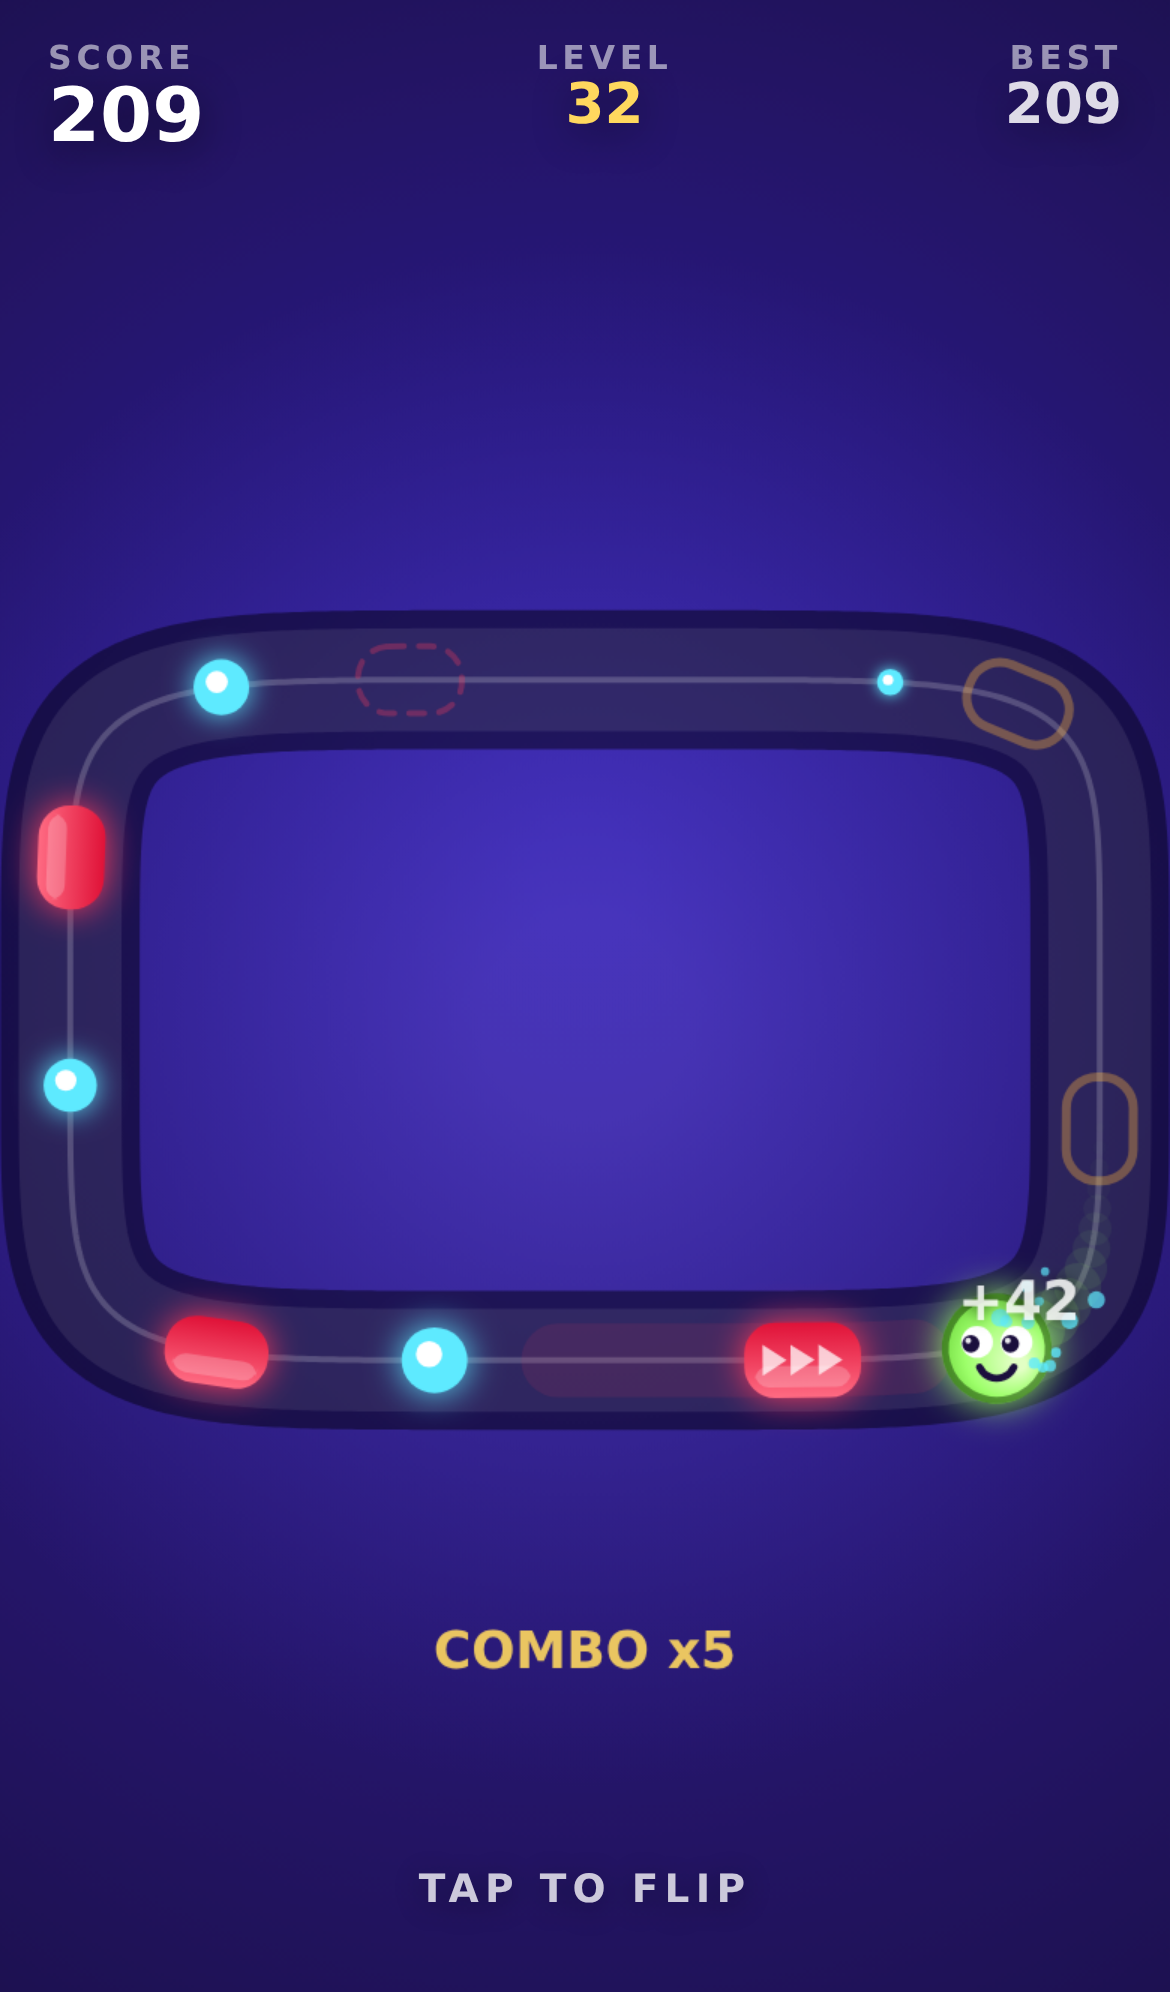
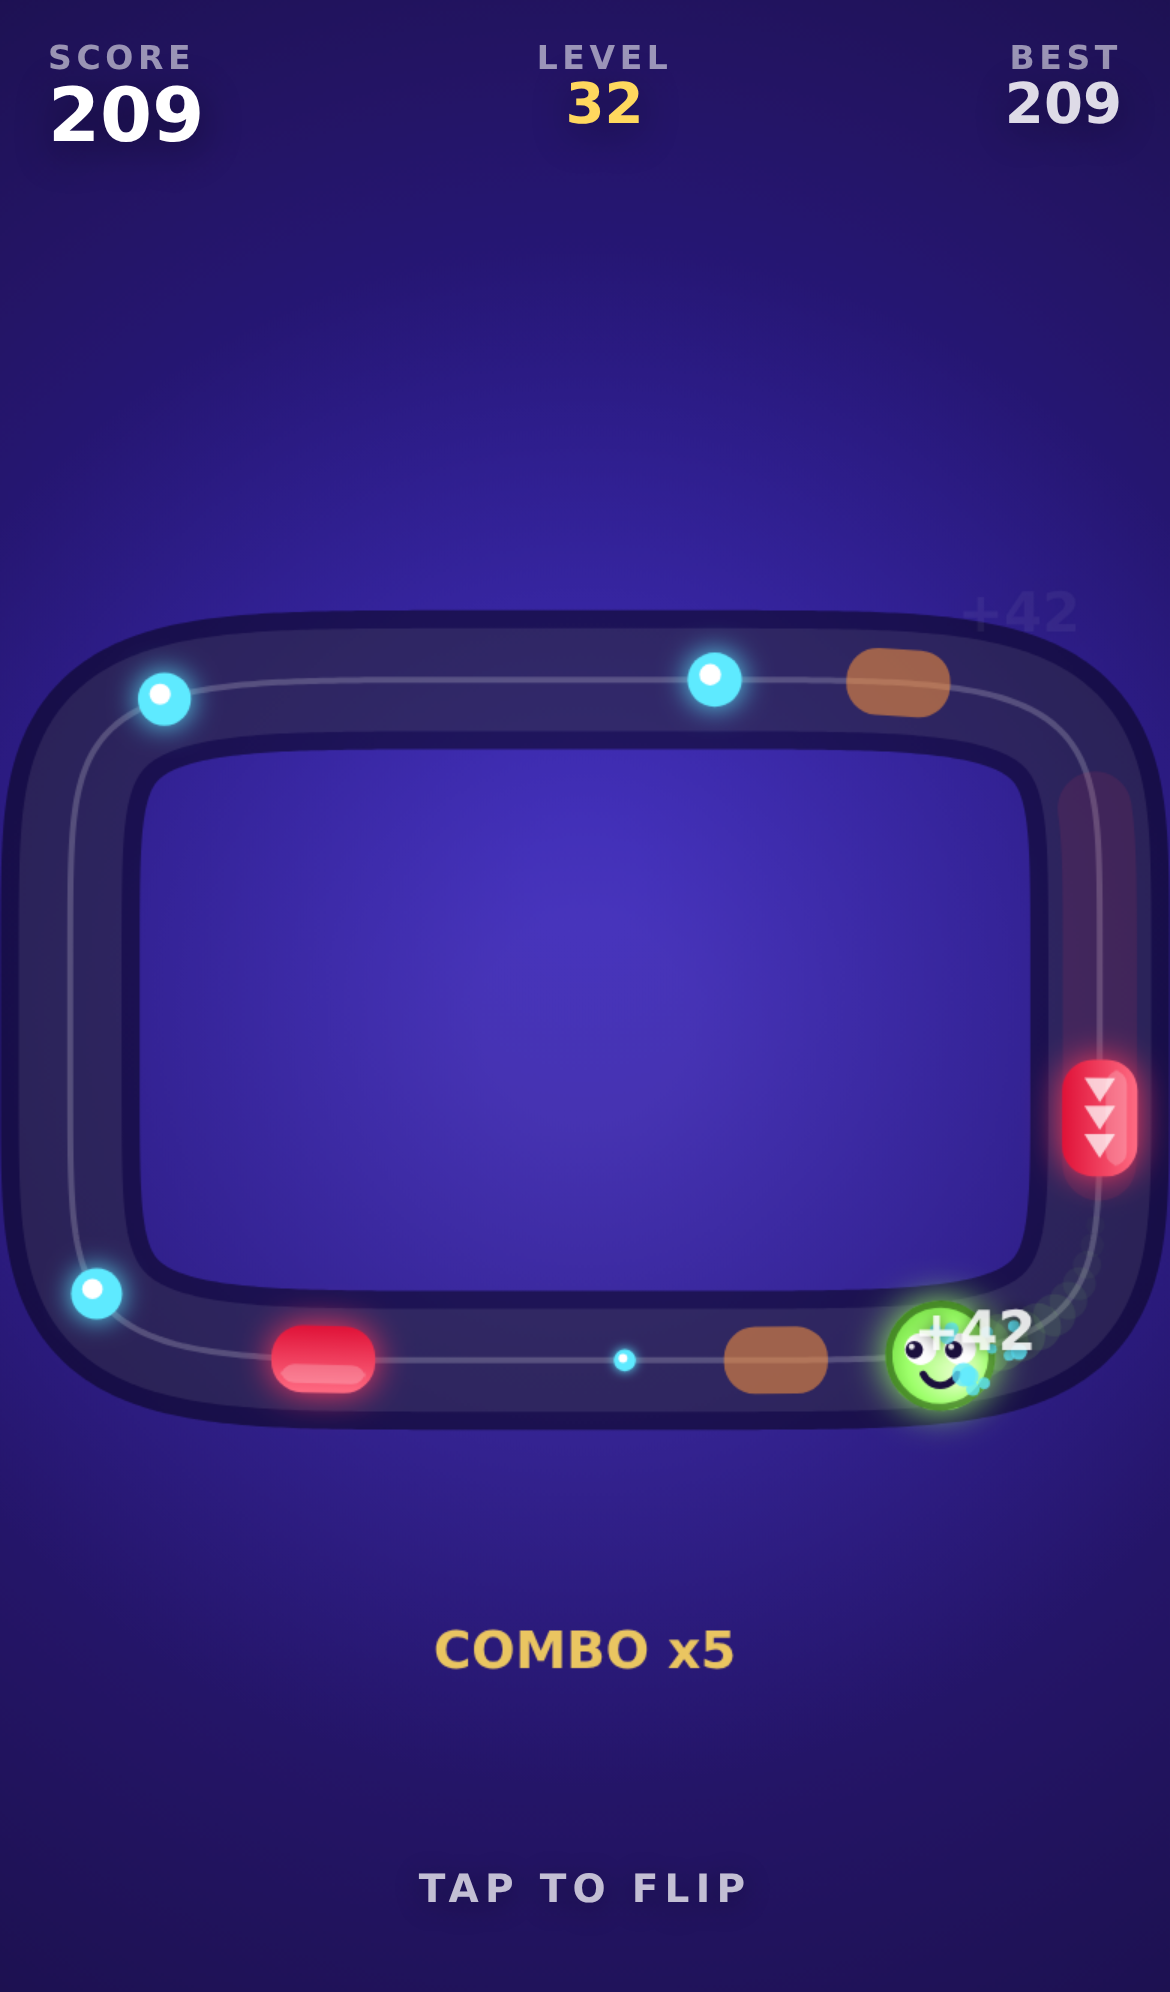
Add files via upload

diff --git a/index.html b/index.html
@@ -601,16 +601,23 @@ function ensureEscape(pRad){
   }
   if(!fwdObj || !backObj) return;                 // at least one way out already
 
-  // free the side that is easier to open, preferring a blinker over a runner
-  var pick, pickIsRun;
-  if(fwdIsRun !== backIsRun){ pickIsRun = false; pick = fwdIsRun ? backObj : fwdObj; }
-  else { pickIsRun = fwdIsRun; pick = (fwdD > backD) ? fwdObj : backObj; }
+  function turnAway(r){
+    var away = dS(r.p, S.s) > 0 ? -1 : 1;   // send it back the way it came
+    if(r.d !== away) r.d = away;
+  }
 
-  if(!pickIsRun){ pick.held = true; pick.solid = false; pick.warn = 1; }
-  else {
-    // send the patrolling block back the way it came, away from Bloop
-    var away = dS(pick.p, S.s) > 0 ? -1 : 1;
-    if(pick.d !== away){ pick.d = away; }
+  if(fwdIsRun && backIsRun){
+    // squeezed between two patrols: turn both around, or the far one keeps closing
+    turnAway(fwdObj); turnAway(backObj);
+  } else if(fwdIsRun !== backIsRun){
+    // one of each: standing the blinker down is the cleaner opening
+    var blink = fwdIsRun ? backObj : fwdObj;
+    blink.held = true; blink.solid = false; blink.warn = 1;
+    turnAway(fwdIsRun ? fwdObj : backObj);
+  } else {
+    // two blinkers: open the one further away, so there is room to run into
+    var pick = (fwdD > backD) ? fwdObj : backObj;
+    pick.held = true; pick.solid = false; pick.warn = 1;
   }
 }
 
@@ -1043,13 +1050,14 @@ function drawBlock(p, ang, sc, solid, warn, kind, dirArrow){
         ctx.closePath(); ctx.fill();
       }
     }
-  } else {
-    ctx.strokeStyle = warn ? 'rgba(255,180,59,'+(0.55+Math.sin(performance.now()/60)*0.35)+')' : 'rgba(255,59,92,0.30)';
-    ctx.lineWidth = warn ? 3 : 2;
-    ctx.setLineDash(warn ? [] : [5,5]);
-    roundRect(ctx, 0,0, len, wid, Math.min(9*sc, wid/2)); ctx.stroke();
-    ctx.setLineDash([]);
+  } else if(warn){
+    // About to turn solid: a filled bar fading up on the spot. Deliberately not
+    // an outline - a hollow ring reads as a floating circle sitting on the track.
+    var a = 0.34 + Math.sin(performance.now()/70)*0.20;
+    ctx.fillStyle = 'rgba(255,150,60,' + a + ')';
+    roundRect(ctx, 0,0, len, wid, Math.min(9*sc, wid/2)); ctx.fill();
   }
+  // Safe: draw nothing. The track stays clean and only real danger is on it.
   ctx.restore();
 }
 
